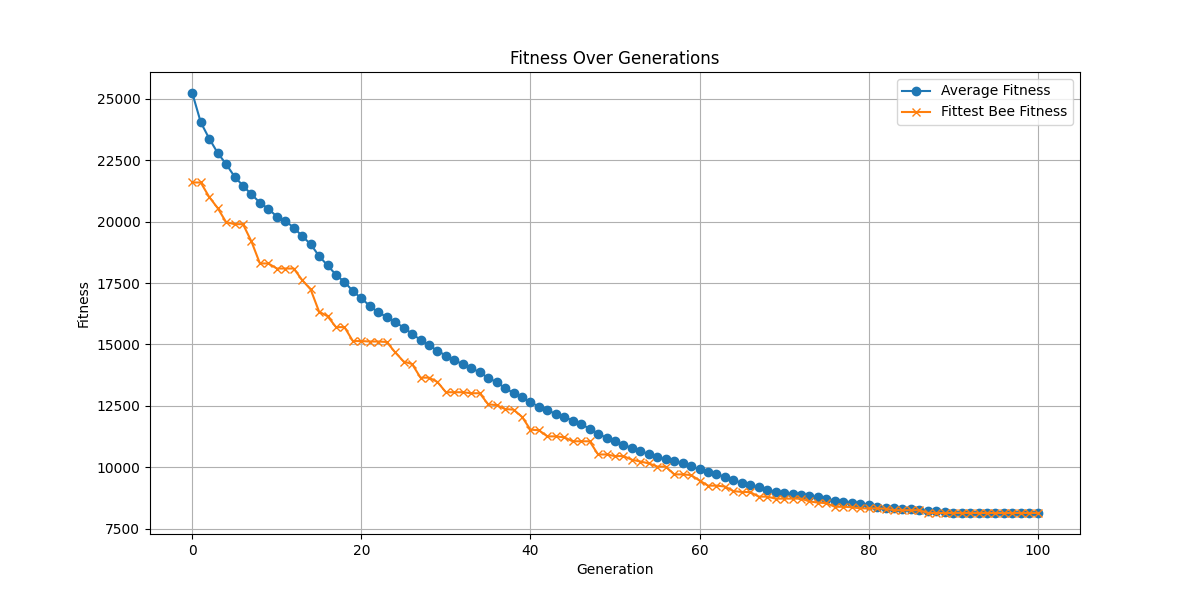
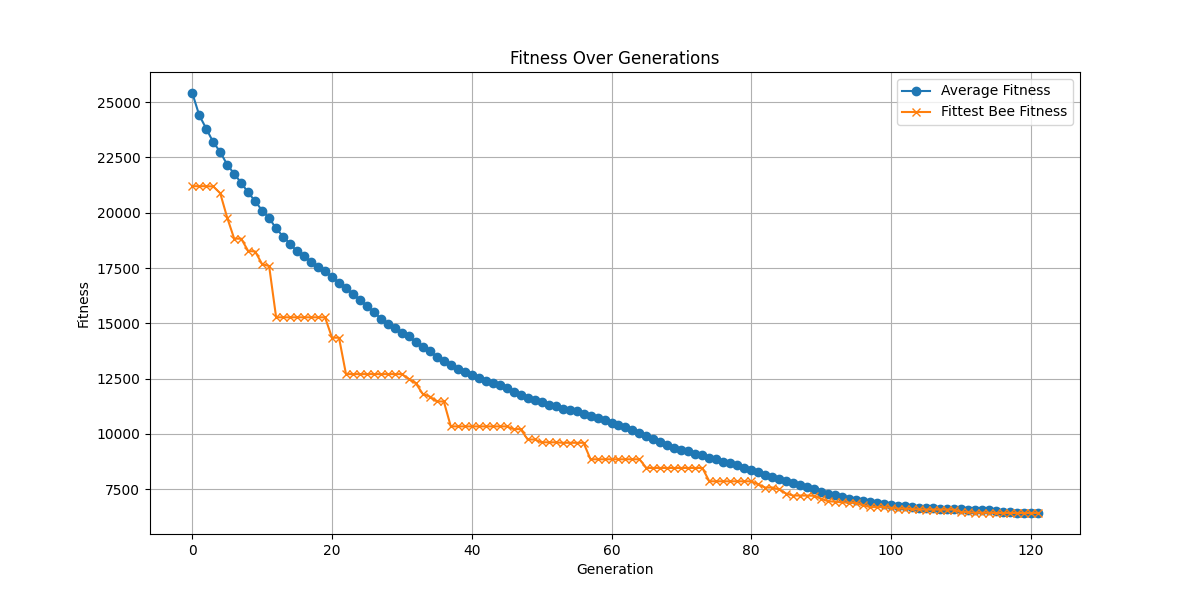
mutation: nearest to right, second nearest to left

diff --git a/beehive.py b/beehive.py
@@ -1,7 +1,6 @@
 import sys
 import math
 import random
-import pandas as pd
 
 
 class Bee:
@@ -21,32 +20,63 @@ class Bee:
             total_distance += calculate_distance(chromosome[i], chromosome[i + 1])
         return total_distance
 
-    def mutate(self, mutation_rate, mutation_frequency):
-        best_fitness = self.fitness
-        best_chromosome = self.chromosome[:]
-        
-        for _ in range(mutation_frequency):
-            gene_index = random.randint(1, len(self.chromosome) - 2)
-            move_direction = random.choice([-1, 1])
-            move_steps = min(mutation_rate, gene_index if move_direction == -1 else len(self.chromosome) - 2 - gene_index)
-            new_position = (gene_index + move_direction * move_steps - 1) % (len(self.chromosome) - 2) + 1
-    
-            # Perform mutation
-            self.chromosome[gene_index], self.chromosome[new_position] = self.chromosome[new_position], self.chromosome[gene_index]
-            self.fitness = self.calculate_fitness()
+    def mutate(self, distances_table, mutation_rate):
+        beehive = self.chromosome[0]
+        available_genes = self.chromosome[:]
+        copy_of_the_chromosome = self.chromosome[:]
+        chromosome_length = len(self.chromosome)
+        for _ in range(min(mutation_rate, len(available_genes))):
+            point_selected = random.choice(available_genes)
+            available_genes.remove(point_selected)
+            random_gene = self.chromosome.index(point_selected)
 
-            # Check if this mutation improved fitness
-            if self.fitness < best_fitness:
-                best_fitness = self.fitness
-                best_chromosome = self.chromosome[:]
-            else:
-                # Revert mutation if it didn't improve fitness
-                self.chromosome = best_chromosome[:]
-                self.fitness = best_fitness
+            closest_points = distances_table[point_selected] # closest points in desc order for the random point selected
+            closest_point_1 = closest_points[0]
+            closest_point_2 = closest_points[1]
+
+            neighbour_from_left = self.chromosome[random_gene-1] # Find neighbours
+            try: neighbour_from_right = self.chromosome[random_gene+1]
+            except: neighbour_from_right = beehive # In case when beehive selected
+
+            # Neighbour to the left  -> closest_point_2
+            # Neighbour to the right -> closest_point_1
+            # left_or_right = random.randint(0, 1)
+            if True:
+                if closest_point_2 == beehive:
+                    self.chromosome.remove(point_selected)
+                    self.chromosome.insert(1, point_selected)
+                    neighbour_from_left = beehive
+                    neighbour_from_right = self.chromosome[2]
+
+                if neighbour_from_left != closest_point_2:
+                    self.chromosome.remove(closest_point_2)
+                    index_of_closest_point_2 = self.chromosome.index(point_selected)
+                    if index_of_closest_point_2 == 0:
+                        self.chromosome.insert(chromosome_length-2, closest_point_2)
+                    else:
+                        self.chromosome.insert(index_of_closest_point_2, closest_point_2)
+            if True:
+                if closest_point_1 == beehive:
+                    self.chromosome.remove(point_selected)
+                    self.chromosome.insert(chromosome_length-2, point_selected)
+                    neighbour_from_left = self.chromosome[chromosome_length-3]
+                    neighbour_from_right = beehive
+
+                if neighbour_from_right != closest_point_1:
+                    self.chromosome.remove(closest_point_1)
+                    index_of_closest_point_1 = self.chromosome.index(point_selected) + 1
+                    self.chromosome.insert(index_of_closest_point_1, closest_point_1)
+            previous_fitness = self.calculate_fitness(copy_of_the_chromosome)
+            fitness_after_mutation = self.calculate_fitness(self.chromosome)
+            if previous_fitness < fitness_after_mutation:
+                self.chromosome = copy_of_the_chromosome
+                self.fitness = previous_fitness
+        return self.chromosome
 
     def ensure_hive_location(self, hive_location):
         if self.chromosome[0] != hive_location or self.chromosome[-1] != hive_location:
             print('Error: Hive location is not correct !')
+            print(self.chromosome)
             sys.exit()
     
     @staticmethod
@@ -87,7 +117,7 @@ class Beehive:
         self.hive_location = hive_location
         self.population_size = population_size
         self.population = []  # List of Bee objects
-        self.distances_table = self.calculate_distances_table()
+        self.distances_table = self.calculate_closest_points()
 
         # Generate initial population
         if seed is None:
@@ -103,26 +133,23 @@ class Beehive:
             self.population.append(new_bee)
             bees_archive.add_bee(new_bee)
     
-    def calculate_distances_table(self):
-        # Create a DataFrame to store distances
-        locations = [(f'{self.hive_location}', self.hive_location)] + [(f'{flower}', flower) for i, flower in enumerate(self.flowers)]
-        distances = {}
+    def calculate_closest_points(self):
+        points = self.flowers + [self.hive_location]
+        closest_points = {} # Dictionary to hold the closest points for each location
 
-        for loc1_name, loc1_coords in locations:
-            row_distances = {}
-            for loc2_name, loc2_coords in locations:
-                if loc1_name == loc2_name:
-                    row_distances[loc2_name] = '-'
-                else:
-                    distance = math.sqrt((loc1_coords[0] - loc2_coords[0])**2 + (loc1_coords[1] - loc2_coords[1])**2)
-                    row_distances[loc2_name] = round(distance, 2)
-            distances[loc1_name] = row_distances
+        for i, point in enumerate(points):
+            distances = []
+            for j, other_point in enumerate(points):
+                if i != j:
+                    distance = calculate_distance(point, other_point)
+                    distances.append((distance, other_point))
 
-        distances_table = pd.DataFrame.from_dict(distances, orient='index')
-        print(distances_table)
-        return distances_table
+            distances.sort() # Sort the distances and get the four closest points
+            closest_points[point] = [location for _, location in distances[:4]]
+
+        return closest_points
     
-    def run_generation(self, bees_archive, select_bees=50, mutation_rate=1, mutation_frequency=1, current_generation=0):
+    def run_generation(self, bees_archive, select_bees=50, mutation_rate=1, current_generation=0):
         # S E L E C T  P A I R S  F O R  C R O S S O V E R
         selected_bees = sorted(self.population, key=lambda bee: bee.fitness)[:select_bees]
         pairs = []
@@ -145,15 +172,9 @@ class Beehive:
         # P E R F O R M  M U T A T I O N
         average_fitness = sum(bee.fitness for bee in self.population) / len(self.population)
         for bee in offspring:
-            bee.mutate(mutation_rate, mutation_frequency)
+            bee.ensure_hive_location(self.hive_location)
             if bee.fitness > average_fitness:
-                pass
-                #bee.mutate(mutation_rate, self.distances_table)
-            # If the new bee fitness is bigger than the average fitness of the population, then launch mutation.
-            # mutation rate 1 will mean that a random gene will be selected. 
-            # The two closest points to the gene will be taken from the already created table of all distances. 
-            # These fllowers will be moved to be from the left and right of the randomly selected gene (trying both and choosing the option where bee fitness is better - smaller). 
-            # If the hive happens to be the closest point, then the not the hive but the randomly selected gene moves to the beginning or the end of the chromosome, and the second closest point to the gene go before of after the randomly selected gene, but always keeping the hive the first and the last element of the chromosome (trying both - putting gene as a first or one before last element of the chrosomosome and choosing the option where bee fitness is better) .
+                bee.mutate(self.distances_table, mutation_rate)
         
         # Sort offspring and assign unique IDs to them
         offspring.sort(key=lambda bee: bee.fitness)

diff --git a/main.py b/main.py
@@ -28,11 +28,11 @@ hive_location = (500, 500)
 
 # P A R A M E T E R S
 population_size = 100
-num_generations = 500
+num_generations = 150
 select_bees = 100 # How many bees to select for crossover
-mutation_rate = 1 # Mutation rate. 1 means a random gene changes the place by 1 step.
-mutation_frequency = 3 # Mutation frequency. Means how many genes will change its places.
-random_seed = None
+mutation_rate = 5
+
+random_seed = 67502
 
 # A L G O R I T H M
 average_fitness_per_generation = [] # Saving average fitnesses of all generations
@@ -47,19 +47,16 @@ fittest_bee_per_generation.append(fitness_results["fittest_bee_fitness"])
 
 for generation in range(num_generations):
     print(f'\n{generation + 1}')
-    new_population = beehive.run_generation(bees_archive, select_bees=select_bees, mutation_rate=mutation_rate, mutation_frequency=mutation_frequency, current_generation=generation+1)
+    new_population = beehive.run_generation(bees_archive, select_bees=select_bees, mutation_rate=mutation_rate, current_generation=generation+1)
     
     if generation > 1:
         if average_fitness_per_generation[generation-1] == average_fitness_per_generation[generation-2]:
-            mutation_frequency = mutation_frequency + 1
-            print(f'New mutation frequency: {mutation_frequency}')
-        elif fittest_bee_per_generation[generation-1] == fittest_bee_per_generation[generation-2]:
-            mutation_frequency = mutation_frequency + 1 # If 2 last fittest bees' fitnesses are equal, increase mutation rate and mutation frequency by one
             mutation_rate = mutation_rate + 1
             print(f'New mutation rate: {mutation_rate}')
-            print(f'New mutation frequency: {mutation_frequency}')
-
-        # Check if the first and last bees have identical chromosomes
+        elif fittest_bee_per_generation[generation-1] == fittest_bee_per_generation[generation-2]:
+            mutation_rate = mutation_rate + 1
+            print(f'New mutation rate: {mutation_rate}')
+        
         if beehive.population[0].chromosome == beehive.population[-1].chromosome:
             print("First and last bees have identical chromosomes. Stopping further generations.")
             break
@@ -76,7 +73,7 @@ print(fittest_bee_path)
 # Displaying the fittest bee path
 x_coords, y_coords = zip(*fittest_bee_path)
 plt.plot(x_coords, y_coords, marker='o')
-plt.title(f"Fittest bee path - Fitness {int(new_population['fittest_bee_fitness'])} - Seed {beehive.seed}")
+plt.title(f"Fittest bee path - ID {fittest_bee_id} - Fitness {int(new_population['fittest_bee_fitness'])} - Seed {beehive.seed}")
 plt.xlabel("X Coordinate")
 plt.ylabel("Y Coordinate")
 plt.show()

diff --git a/Readme.md b/Readme.md
@@ -17,31 +17,50 @@ d = \sqrt{(x2 - x1)^2 + (y2 - y1)^2}
 $$
 
 ## Genetic Algorithm Components
-- **Pairs Selection**: Top 50 fittest bees are chosen for crossover. Roulette wheel selection is used, where a bee's chance of selection is proportional to its inversed fitness (because smaller is better).
+- **Pairs Selection**: Selection is based on a roulette wheel method, where selection likelihood is inversely proportional to bee fitness, favoring those with smaller fitness values. A flattening formula $$ y = 1000 / x $$ is applied to moderate selection bias.
 - **Crossover ([Partially Mapped Crossover](https://github.com/ruta-tamosiunaite/partially-mapped-crossover) - PMX)**: Two parent chromosomes are combined to create offspring. Segments between two chosen crossover points are swapped and duplicates are resolved using a mapping approach.
-- **Mutation (Place Change)**: Random changes in a path to explore new possibilities. Mutation rate determines the magnitude of change. Higher rates move a gene more significantly to the left or right in the chromosome.
+Each selected pair produces one fitter child, potentially contributing to the next generation.
+- **Mutation**: Enhances bee path efficiency by reordering the chromosome using proximity data.
+  - `mutation_rate` indicates the number of genes (flowers) to consider for mutation. 
+  - A dictionary `distances_table` contains the two closest points to each location. 
+  
+>**Rearrangement strategy**:
+>    
+>- Closest point          -> Neighbour to the right
+>- Second Closest point   -> Neighbour to the left
+
 - **Updating Population**: Population is updated by replacing less fit ancestors with fitter offspring. The combined population and offspring are sorted, and the top 100 individuals are selected for the next generation.
+  
+- **Stopping the script**: Halt the generations when the chromosomes of the first and last bees in a sorted population are identical, signaling that *all bees are the same and further improvement is unlikely*.
+  
 
 ## Files
 - **Main.py**: Controls the algorithm flow and contains parameters.
-- **Beehive.py**: Hosts the `Bee` and `Beehive` classes. The Beehive class manages the bee population and oversees their evolution through generations.
+- **Beehive.py**: Hosts the `Bee`, `Beehive` and `BeesArchive` classes. The Beehive class manages the bee population and oversees their evolution through generations. The Bees Arhive class  
   
   
 ## Results Overview
 
 ### Initial Setup
-- **Population**: Start with a random initial population of 100 bees.
-- **Crossover**: Implement roulette wheel selection for choosing parent bees. Each selected pair produces two children, contributing to the next generation.
-- **Selection**: After crossover, select the 100 fittest bees to form the new generation.
+- **Population size**: Random initial population of 100 bees.
+- **Number of generations**: 150
+- **Crossover**: Select all 100 bees for crossover.
+- **Initial Mutation Rate**: 5
+- **Adaptive Mutation**: If the fittest bee per generation remains unchanged or the average fitness per generation remains the same for two consecutive generations, increase the mutation rate by 1.
 
-### Mutation Strategy
-- **Initial Mutation Rate**: 1 (neighbouring genes swap places).
-- **Initial Mutation Frequency**: 3 (three swaps per new bee's chromosome).
-
-### Adaptive Mutation
-- **Fittest Bee Stagnation**: If the fittest bee per generation remains unchanged, increase the mutation frequency by 1 and the mutation rate (enabling gene swap over more than one position to the left or right).
-- **Average Fitness Stagnation**: If the average fitness per generation remains the same for two consecutive generations, increase the mutation frequency by 1.
-
-![Fittest Bee Path](Fittest_bee_path_8140.png)
+![Fittest Bee Path](Fittest_bee_path.png)
   
 ![Fitness Over Generations](Fitness_over_generations.png)
+
+![Family Tree](Family_tree.png)
+
+
+## Insights
+
+- **Population selection for crossover** - Optimal reproduction outcomes are achieved by selecting **all bees**, not the TOP 50. This approach ensures higher chromosome variation and controlled convergence.
+  
+- **Initial population strategy** - For the Traveling Salesman Problem, initializing with a fit population leads to significantly improved results (distance of ~5500) but causes rapid convergence and homogeneity. Introducing random chromosomes does not notably enhance outcomes.
+
+>Enhancing initial population diversity may involve using **point clusters**, originating from the beehive, and exploring different cluster combinations for path construction defining both start and end simultaneously. A random flower from each cluster is selected for the initial path, promoting variety though it may not necessarily surpass existing methods.
+
+- **Mutation Refinement**: Mutation could be improved by considering the spatial area between two flowers, A and B. If any flowers within a defined width of the line from A to B aren't between them in the chromosome, the path is rearranged to include the nearest of these flowers to A. This process starts with a minimal skip between A and B and adjusts dynamically, with the maximum width being the distance between A and B.
